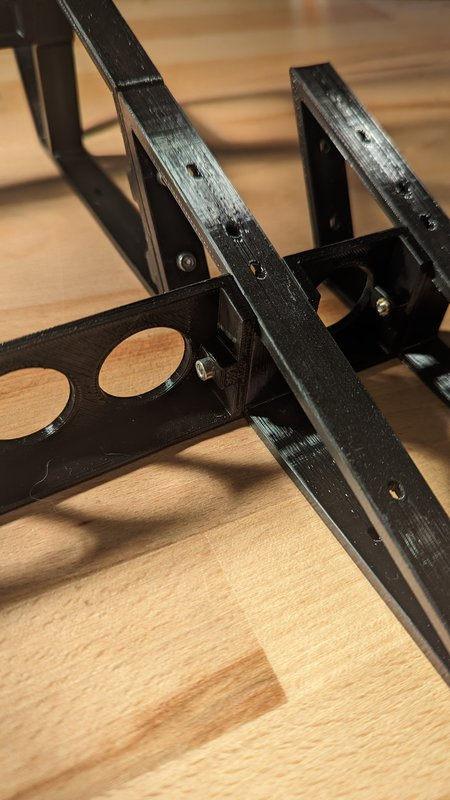
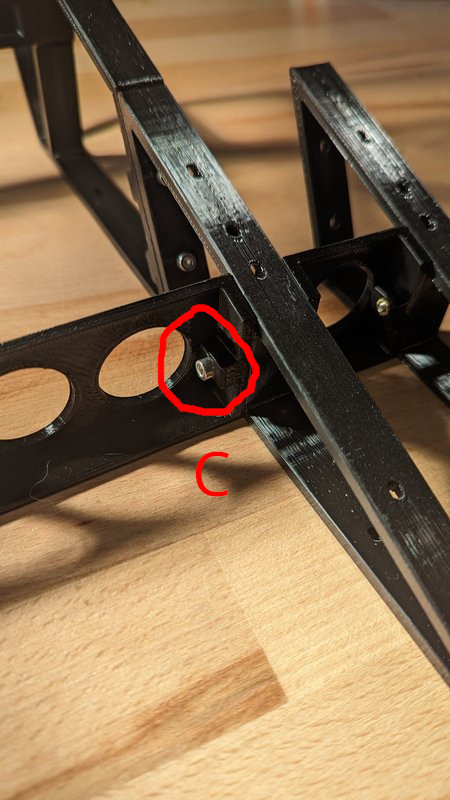
add more Text

Changed region(s): [[0.3422, 0.375, 0.5289, 0.5312], [0.4978, 0.4062, 0.5911, 0.5], [0.4356, 0.5625, 0.4978, 0.625]]

diff --git a/T2_ext/T2_ext_Assembly.md b/T2_ext/T2_ext_Assembly.md
@@ -1,24 +1,45 @@
+# Ausbauanleitung T2_ext #
+## Material ##
 
-Werkzeug : Imbus 2,5mm (lang) 
-Schrauben: M3x12   (8X)
-	       M3x20   (6x)
-           M3x35   (2x)
-Bei der Positionierung ist zu beachten, dass die Stege so eingebaut werden, dass die Schrägen Kanten oben sind, also in der Flucht der Seitenteile sind. 
-Die Schrauben sollen nur handfest angezogen werden. 
 
-Alle Schrauben von der Seite, also Horizontal wo nur 2 Teile verbunden werden sind M3x20
+| Schraube | M3x12 | M3x20 | M3x 35 |
+| :---:   | :---: | :---: | :---: |
+| Anzahl  | 8 | 6  | 2 | 
+
+Sind im Lieferumfang vorhanden.
+
+## Werkzeug ## 
+- Imbusschlüssel 2,5mm 
+
+
+## Aufbauanleitung: ##
+
+**Positionierung der Stege:**
+- Achten Sie darauf, dass die Stege so eingebaut werden, dass die schrägen Kanten oben sind und sich somit in der Flucht der Seitenteile befinden.
+
+**Anziehen der Schrauben:**
+- Ziehen Sie die Schrauben nur handfest an, um eine angemessene Stabilität zu gewährleisten.
+
+
+![Alt text](pics/PXL_20240324_134848606_t.jpg?raw=true "Title")
+
+**Verwendung der Schrauben:**
+- Alle Schrauben, die seitlich verwendet werden, also horizontal, um nur zwei Teile zu verbinden, sollten M3x20 Schrauben sein. (**Position A**)
+
+
 ![Alt text](pics/PXL_20240324_134704943_t.jpg?raw=true "Title")
 ![Alt text](pics/PXL_20240324_134708719_t.jpg?raw=true "Title")
-![Alt text](pics/PXL_20240324_134715616_t.jpg?raw=true "Title")
 
-Alle Schrauben von oben und hinten sind M3x12 
+Alle Schrauben von **oben** und **hinten** sind M3x12. Für den Imbusschlüssel gibt es vorgefertigte Löcher durch das ganze Bauteil.  (**Position B**)
 
 ![Alt text](pics/PXL_20240324_134715616_t.jpg?raw=true "Title")
 ![Alt text](pics/PXL_20240324_134721901_t.jpg?raw=true "Title")
 
-Es gibt zwei Schrauben die von innen nach aussen geschraubt werden (M3x35) Also drei Teile mit einer Schraube. Stegkurz,Seitenteil,Steg lang. 
+- **Schraubenmontage von Innen nach Außen:**
+  - Zur Montage von drei Teilen – einem kurzen Steg, einem Seitenteil und einem langen Steg – verwenden Sie M3x35 Schrauben. Diese werden von innen nach außen geschraubt.
 
-Daher gibt es in einer langen Strebe keine Gewindehülsen sondern nur Durchgangslöcher.
-Die Gewindehülsen sind dann im kurzen Steg (40mm lang) 
+- **Gewindehülsen und Durchgangslöcher:**
+  - In einer längeren Strebe werden keine Gewindehülsen verwendet, sondern nur Durchgangslöcher. Die Gewindehülsen sind stattdessen im kurzen Steg (40 mm lang) eingelassen. (**Position C**)
+
 
 ![Alt text](pics/PXL_20240324_134640415_t.jpg?raw=true "Title")
